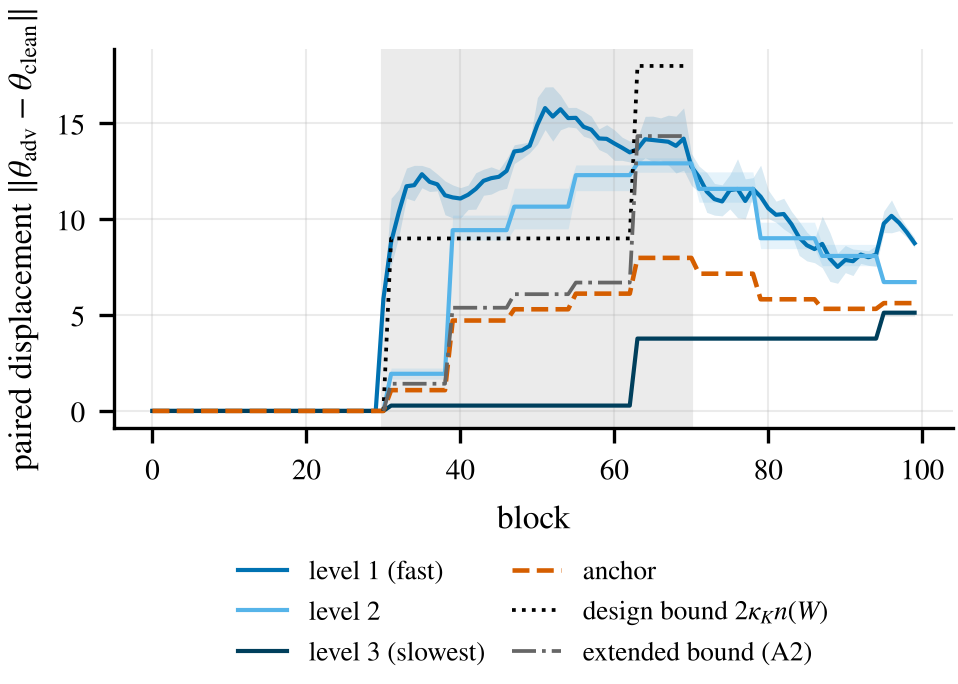
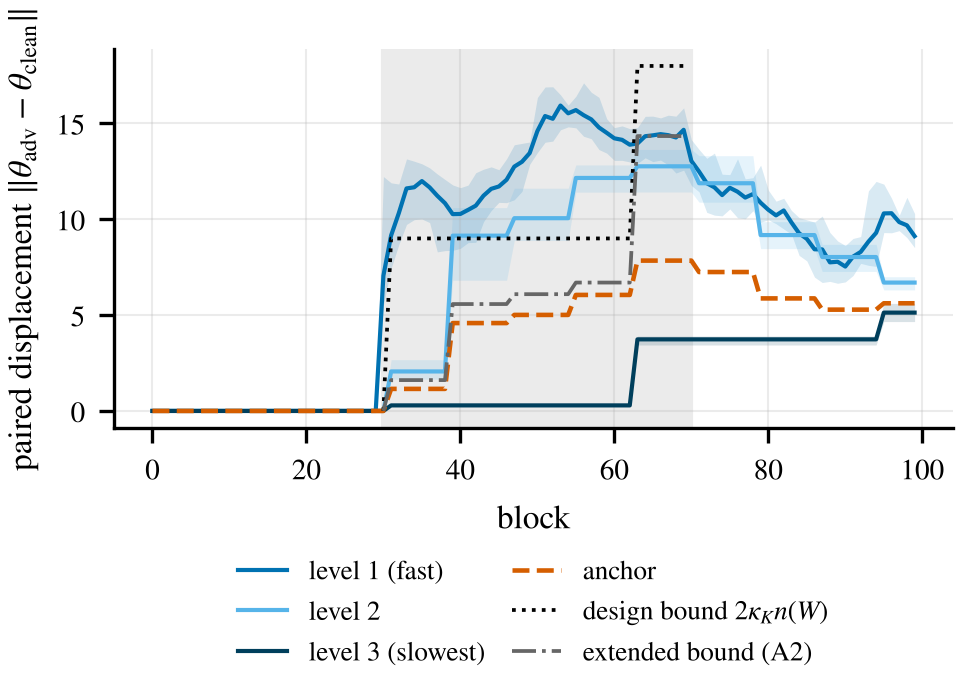
Paired-displacement figure over seeds 10-14 (stored displacements of the pool machines); paired_disp takes several clean folders, machine-aware
Claude-Session: https://claude.ai/code/session_014LiDyft9H5r68QLPkpAAJF

diff --git a/scripts/paired_disp.py b/scripts/paired_disp.py
@@ -106,24 +106,24 @@ def extended_bound(adv, cln, D_prev, eta_K, K, w0, w1):
 def main():
     ap = argparse.ArgumentParser()
     ap.add_argument("folder")
-    ap.add_argument("--clean", default=None, help="folder of the clean twins (default: same folder)")
+    ap.add_argument("--clean", nargs="*", default=None, help="folder(s) of the clean twins (default: same folder)")
     ap.add_argument("--out", default="docs/figures/fig_paired_disp")
     args = ap.parse_args()
     recs = {fn: json.load(open(fn)) for fn in glob.glob(os.path.join(args.folder, "*.json"))}
-    if args.clean:
-        recs.update({fn: json.load(open(fn)) for fn in glob.glob(os.path.join(args.clean, "*.json"))})
+    for folder in args.clean or []:   # several machines' clean folders: a record is paired with the twin of its own machine
+        recs.update({fn: json.load(open(fn)) for fn in glob.glob(os.path.join(folder, "*.json"))})
     # clean twins; two clean runs with the same settings (one saved with snapshots, one without) are
     # the same deterministic run, so prefer the one whose snapshot file exists
     clean = {}
     for fn, r in sorted(recs.items(), key=lambda kv: os.path.exists(kv[0].replace(".json", ".levels.npz"))):
         if r["config"]["attack"]["type"] == "none":
-            clean[(match_key(r["config"]), r["seed"])] = fn
+            clean[(match_key(r["config"]), r["seed"], r.get("machine"))] = fn
     results = []
     for fn, r in recs.items():
         c = r["config"]
         if c["attack"]["type"] == "none" or c["receiver"]["type"] != "citadel":
             continue
-        cfn = clean.get((match_key(c), r["seed"]))
+        cfn = clean.get((match_key(c), r["seed"], r.get("machine")))
         if cfn is None:
             continue
         la, lc = load_levels(fn), load_levels(cfn)

diff --git a/paper/main.tex b/paper/main.tex
@@ -860,7 +860,7 @@ Attack & \thead{See-\\ds} & \thead{Excess SER\\{}[95\% CI]} & Rej. & $D_K$ & Str
 \centering
 \includegraphics[width=\columnwidth]{fig_rev_p4_paired_a1_sir0_clip}
 \caption{Paired displacement of every level and of the anchor under A1 at SIR 0\,dB, window 30--69
-shaded (mean over seeds 10--12, band from the smallest to the largest seed), with the design bound
+shaded (mean over seeds 10--14, band from the smallest to the largest seed), with the design bound
 \eqref{eq:design} and the structural bound \eqref{eq:struct} (largest over the seeds).}
 \label{fig:retention}
 \end{figure}

diff --git a/docs/PAIRED_DISP_rev_p4_paired.md b/docs/PAIRED_DISP_rev_p4_paired.md
@@ -2,5 +2,5 @@
 
 | attack | SIR | clip kappa | seeds | max D_K in window | design bound 2 kappa_K n(W) | extended structural bound (A2) | max D_anchor |
 |---|---|---|---|---|---|---|---|
-| a1 | 0 | [8.5, 4.5] | 3 | 4.34 | 18.00 | 16.48 | 6.98 |
-| a1 | 10 | [8.5, 4.5] | 3 | 3.86 | 18.00 | 14.34 | 8.28 |
+| a1 | 0 | [8.5, 4.5] | 5 | 4.34 | 18.00 | 16.79 | 6.98 |
+| a1 | 10 | [8.5, 4.5] | 5 | 3.91 | 18.00 | 14.34 | 8.36 |
